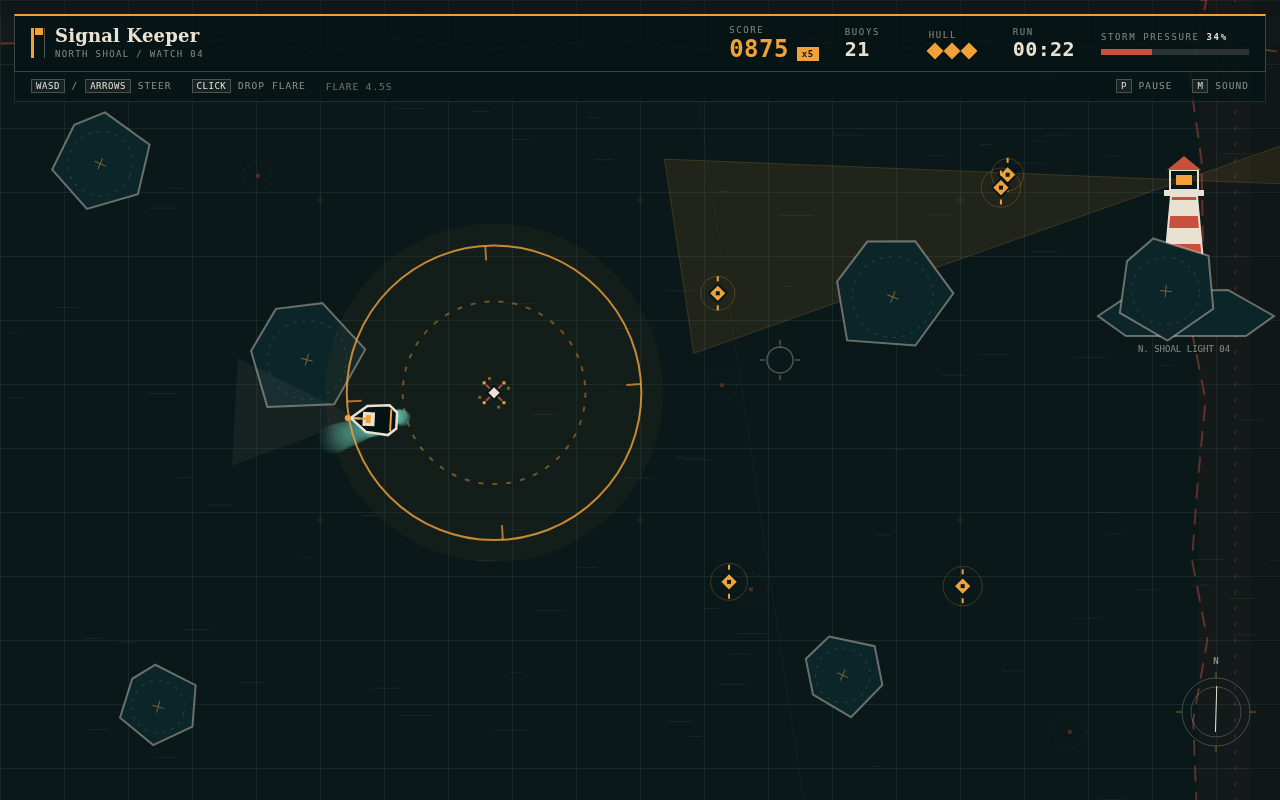
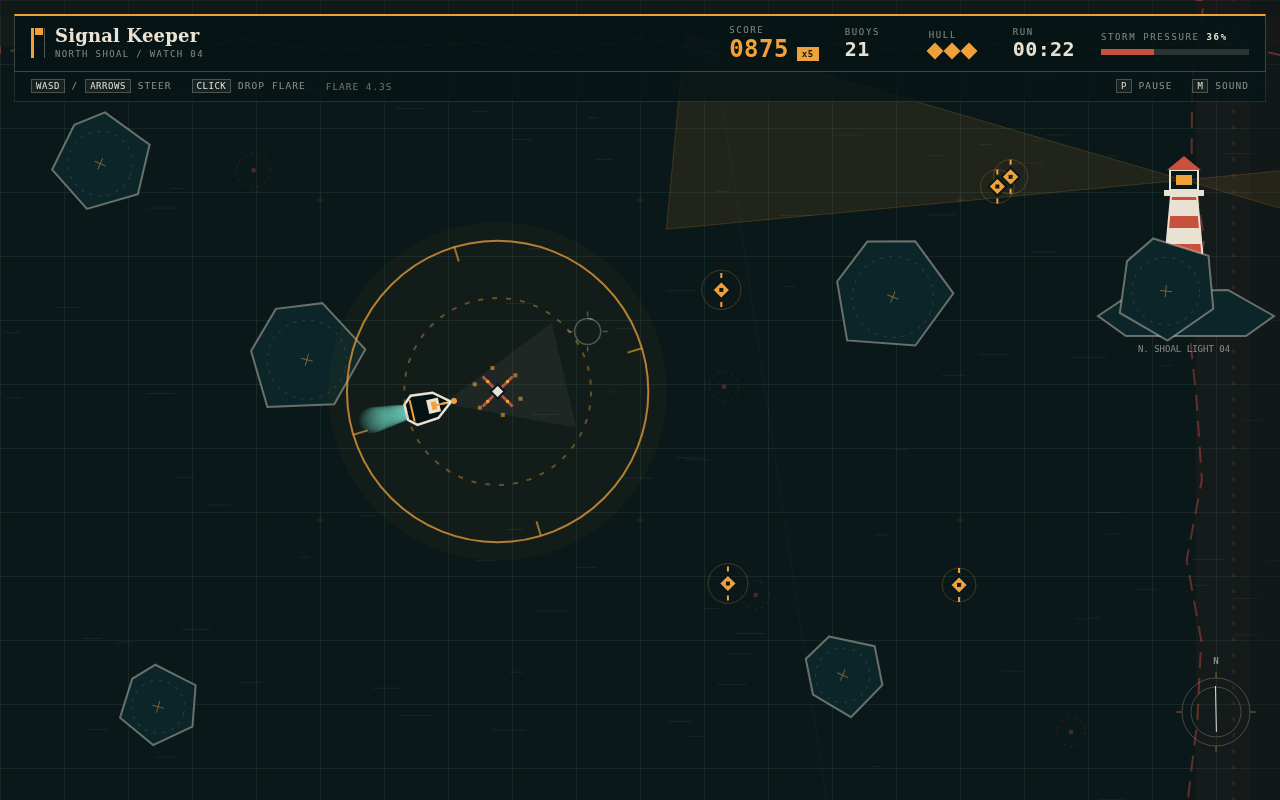
entry: signal keeper game
Sharpen the flare burn mark and stage the play shot on a mine near the tender.

diff --git a/game/src/shots.js b/game/src/shots.js
@@ -48,21 +48,32 @@ function advance(state, seconds, autopilot) {
   }
 }
 
-/** Lay a flare on the mine nearest the tender, so the play shot puts the burn, the tender and the
- *  cooling HUD line in one frame instead of a cluster in a corner. */
+/** Close on a mine that sits well inside the frame, so the play shot puts the burn, the tender and
+ *  the cooling HUD line in one readable frame instead of a cluster in a corner. */
 function stageFlare(state) {
-  if (state.mines.length === 0) return;
-  let target = state.mines[0];
+  const inFrame = state.mines.filter((mine) => mine.x > 220 && mine.x < 1040 && mine.y > 220 && mine.y < 620);
+  const pool = inFrame.length > 0 ? inFrame : state.mines;
+  if (pool.length === 0) return null;
+  let target = pool[0];
   let best = Infinity;
-  for (const mine of state.mines) {
+  for (const mine of pool) {
     const distance = Math.hypot(mine.x - state.player.x, mine.y - state.player.y);
     if (distance < best) {
       best = distance;
       target = mine;
     }
   }
+  // Steer onto it for a moment so the tender stands in its own light when the flare goes.
+  const toMine = { x: target.x - state.player.x, y: target.y - state.player.y };
+  const length = Math.hypot(toMine.x, toMine.y) || 1;
+  const heading = { x: toMine.x / length, y: toMine.y / length };
+  for (let i = 0; i < 40 && Math.hypot(target.x - state.player.x, target.y - state.player.y) > 96; i += 1) {
+    stepRun(state, STEP, heading);
+    drainEvents(state);
+  }
   state.flareCooldown = 0;
   useFlare(state, target.x, target.y);
+  return target;
 }
 
 export function stageShot(kind, seed) {
@@ -97,11 +108,8 @@ export function stageShot(kind, seed) {
     };
   }
   advance(state, 22, true);
-  stageFlare(state);
-  advance(state, 0.08, true);
-  return {
-    state,
-    view: { screen: 'play', pointer: { x: 780, y: 360, inside: true } },
-    summary: null,
-  };
+  const flare = stageFlare(state);
+  advance(state, 0.3, false);
+  const pointer = flare ? { x: flare.x + 90, y: flare.y - 60, inside: true } : { x: 780, y: 360, inside: true };
+  return { state, view: { screen: 'play', pointer }, summary: null };
 }

diff --git a/game/src/render.js b/game/src/render.js
@@ -345,25 +345,26 @@ function mineIsLit(state, mine) {
   return false;
 }
 
-/** A burned mine leaves a flat rust X on the water for a moment, so the flare's work is visible in its light. */
+/** A burned mine leaves a flat rust X ringed by embers on the water for a moment, big enough to read
+ *  around a flare's flame diamond, so the flare's work is visible in its own light. */
 function drawScorches(ctx, scorches) {
   for (const scorch of scorches) {
     const fade = Math.min(1, scorch.life / 1.2);
     ctx.save();
-    ctx.globalAlpha = fade * 0.85;
+    ctx.globalAlpha = fade * 0.9;
     ctx.strokeStyle = COLOR.rust;
-    ctx.lineWidth = 2;
+    ctx.lineWidth = 3;
     ctx.beginPath();
-    ctx.moveTo(scorch.x - 8, scorch.y - 8);
-    ctx.lineTo(scorch.x + 8, scorch.y + 8);
-    ctx.moveTo(scorch.x + 8, scorch.y - 8);
-    ctx.lineTo(scorch.x - 8, scorch.y + 8);
+    ctx.moveTo(scorch.x - 15, scorch.y - 15);
+    ctx.lineTo(scorch.x + 15, scorch.y + 15);
+    ctx.moveTo(scorch.x + 15, scorch.y - 15);
+    ctx.lineTo(scorch.x - 15, scorch.y + 15);
     ctx.stroke();
-    ctx.globalAlpha = fade * 0.5;
+    ctx.globalAlpha = fade * 0.6;
     ctx.fillStyle = COLOR.amber;
-    for (let i = 0; i < 4; i += 1) {
-      const a = (i / 4) * Math.PI * 2 + scorch.life * 2;
-      ctx.fillRect(scorch.x + Math.cos(a) * 15 - 1.5, scorch.y + Math.sin(a) * 15 - 1.5, 3, 3);
+    for (let i = 0; i < 6; i += 1) {
+      const a = (i / 6) * Math.PI * 2 + scorch.life * 2;
+      ctx.fillRect(scorch.x + Math.cos(a) * 24 - 2, scorch.y + Math.sin(a) * 24 - 2, 4, 4);
     }
     ctx.restore();
   }
